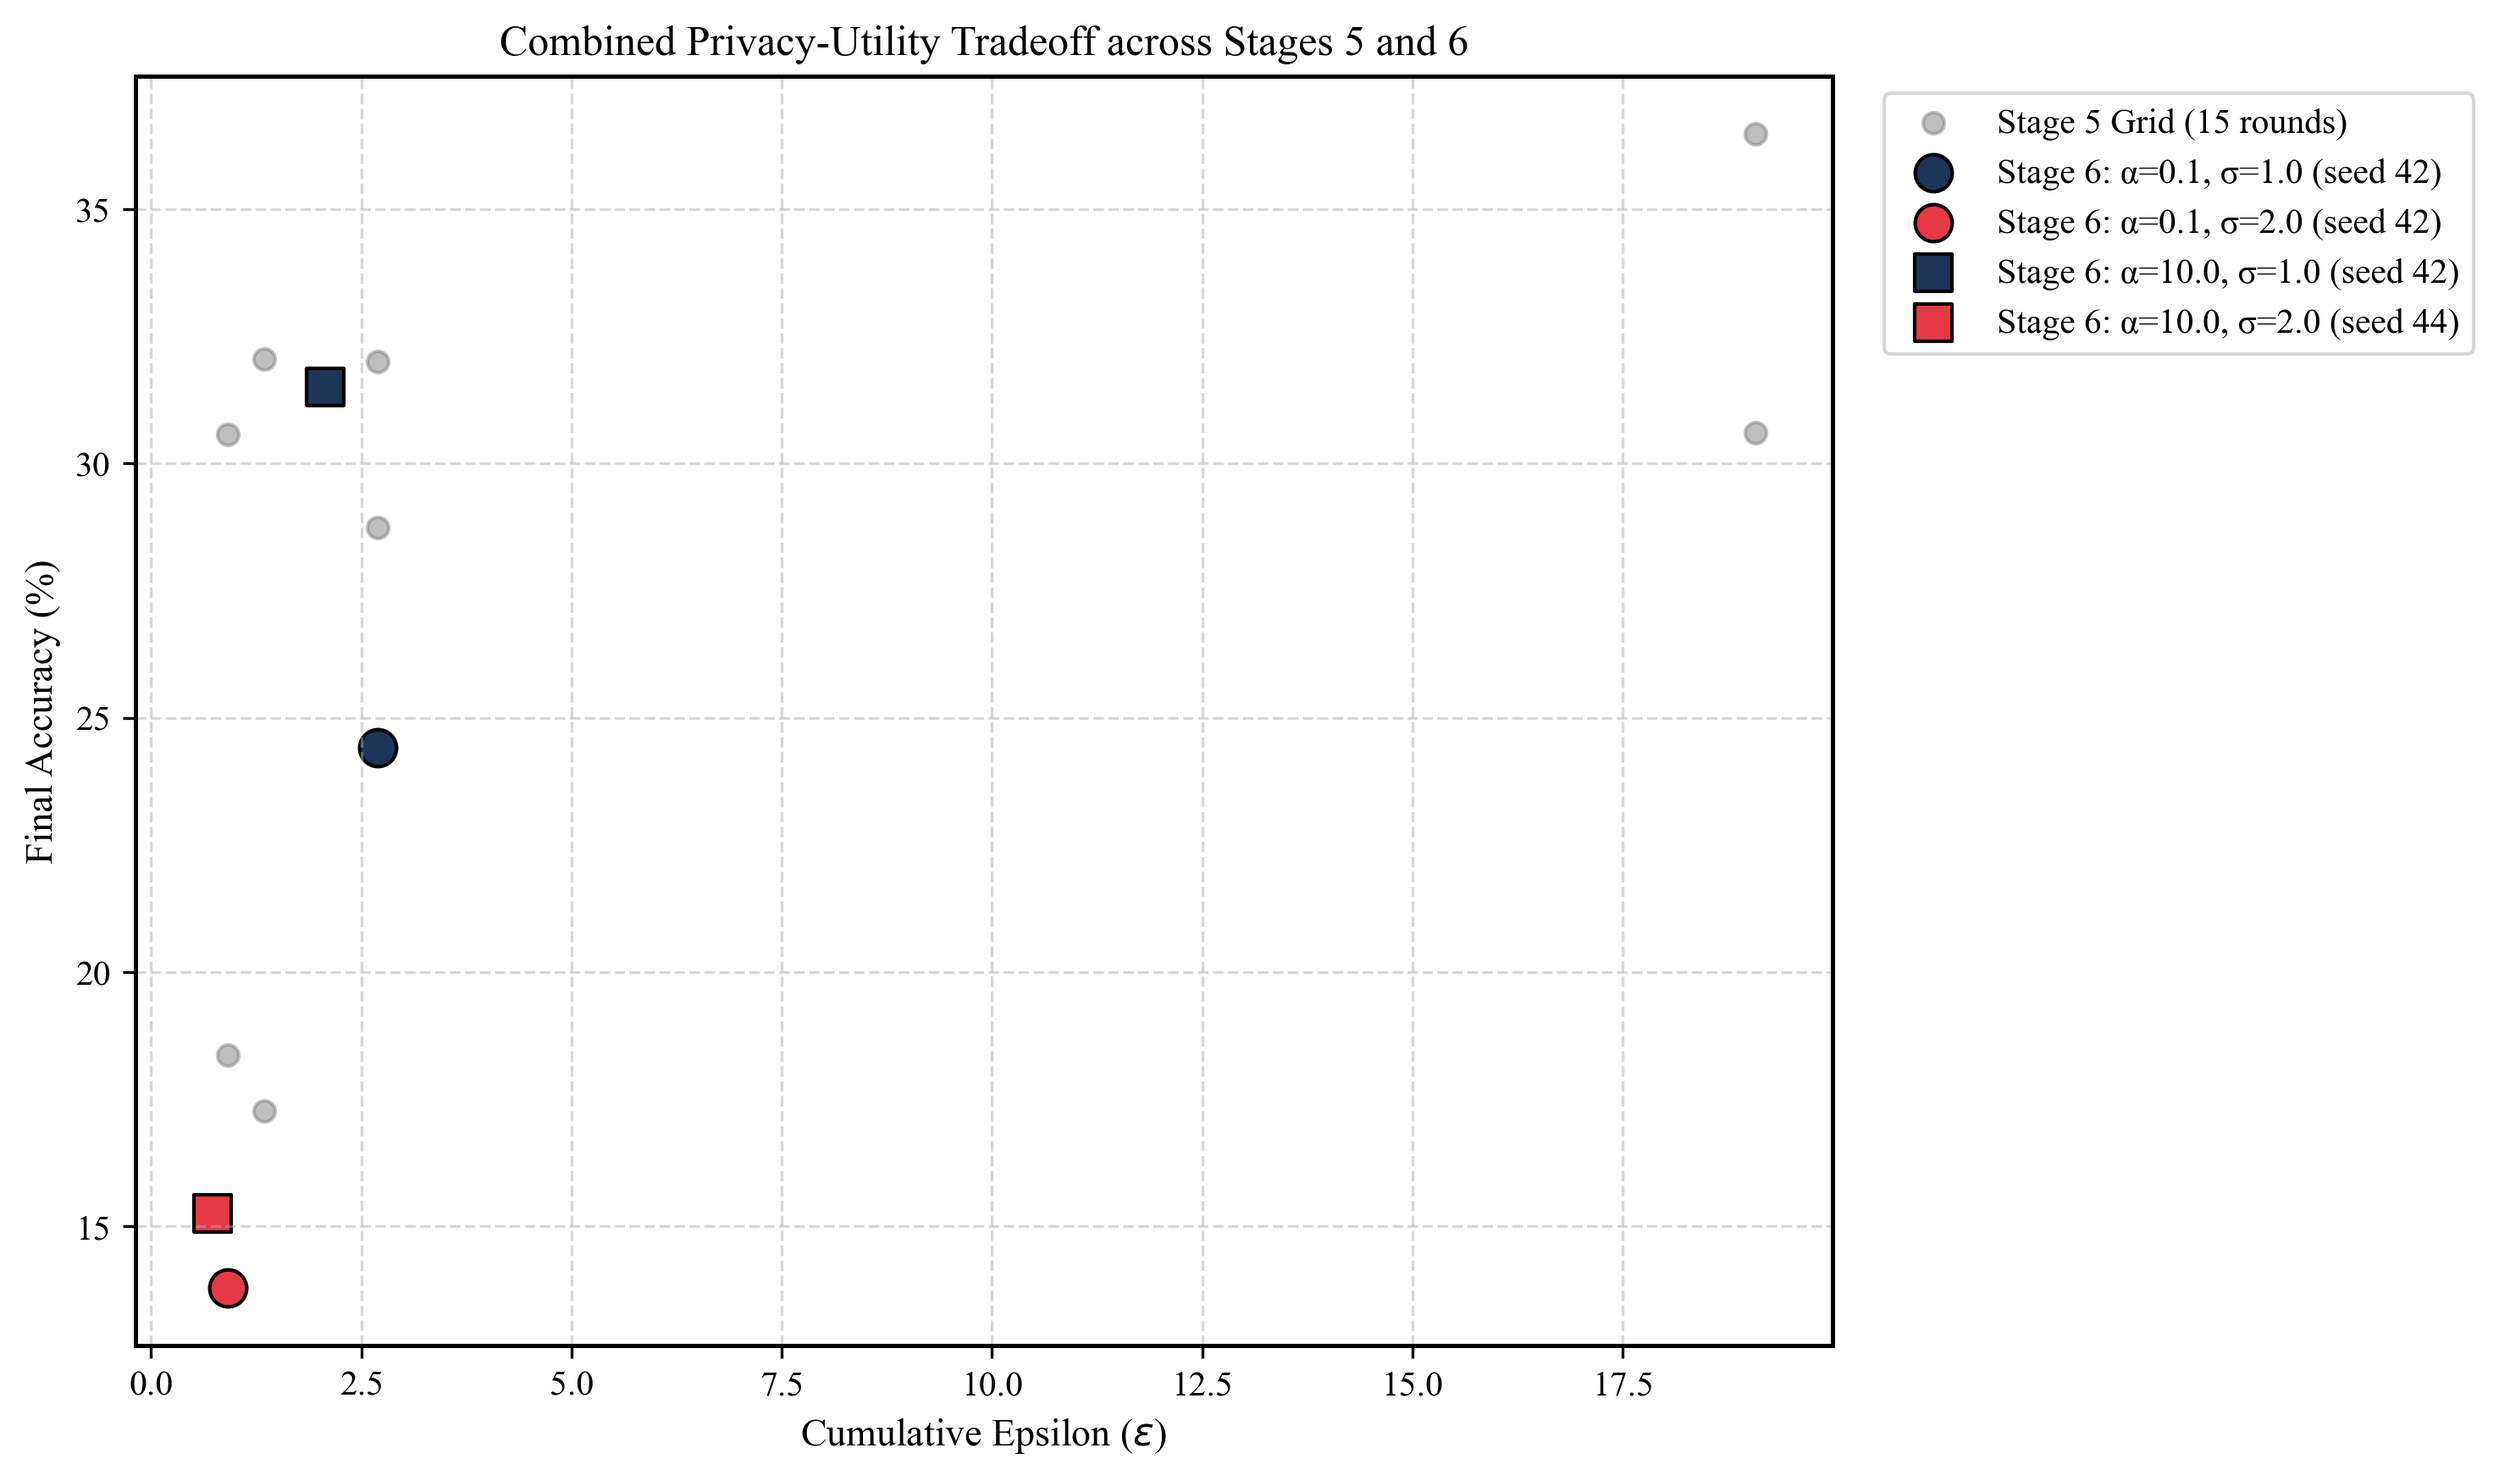
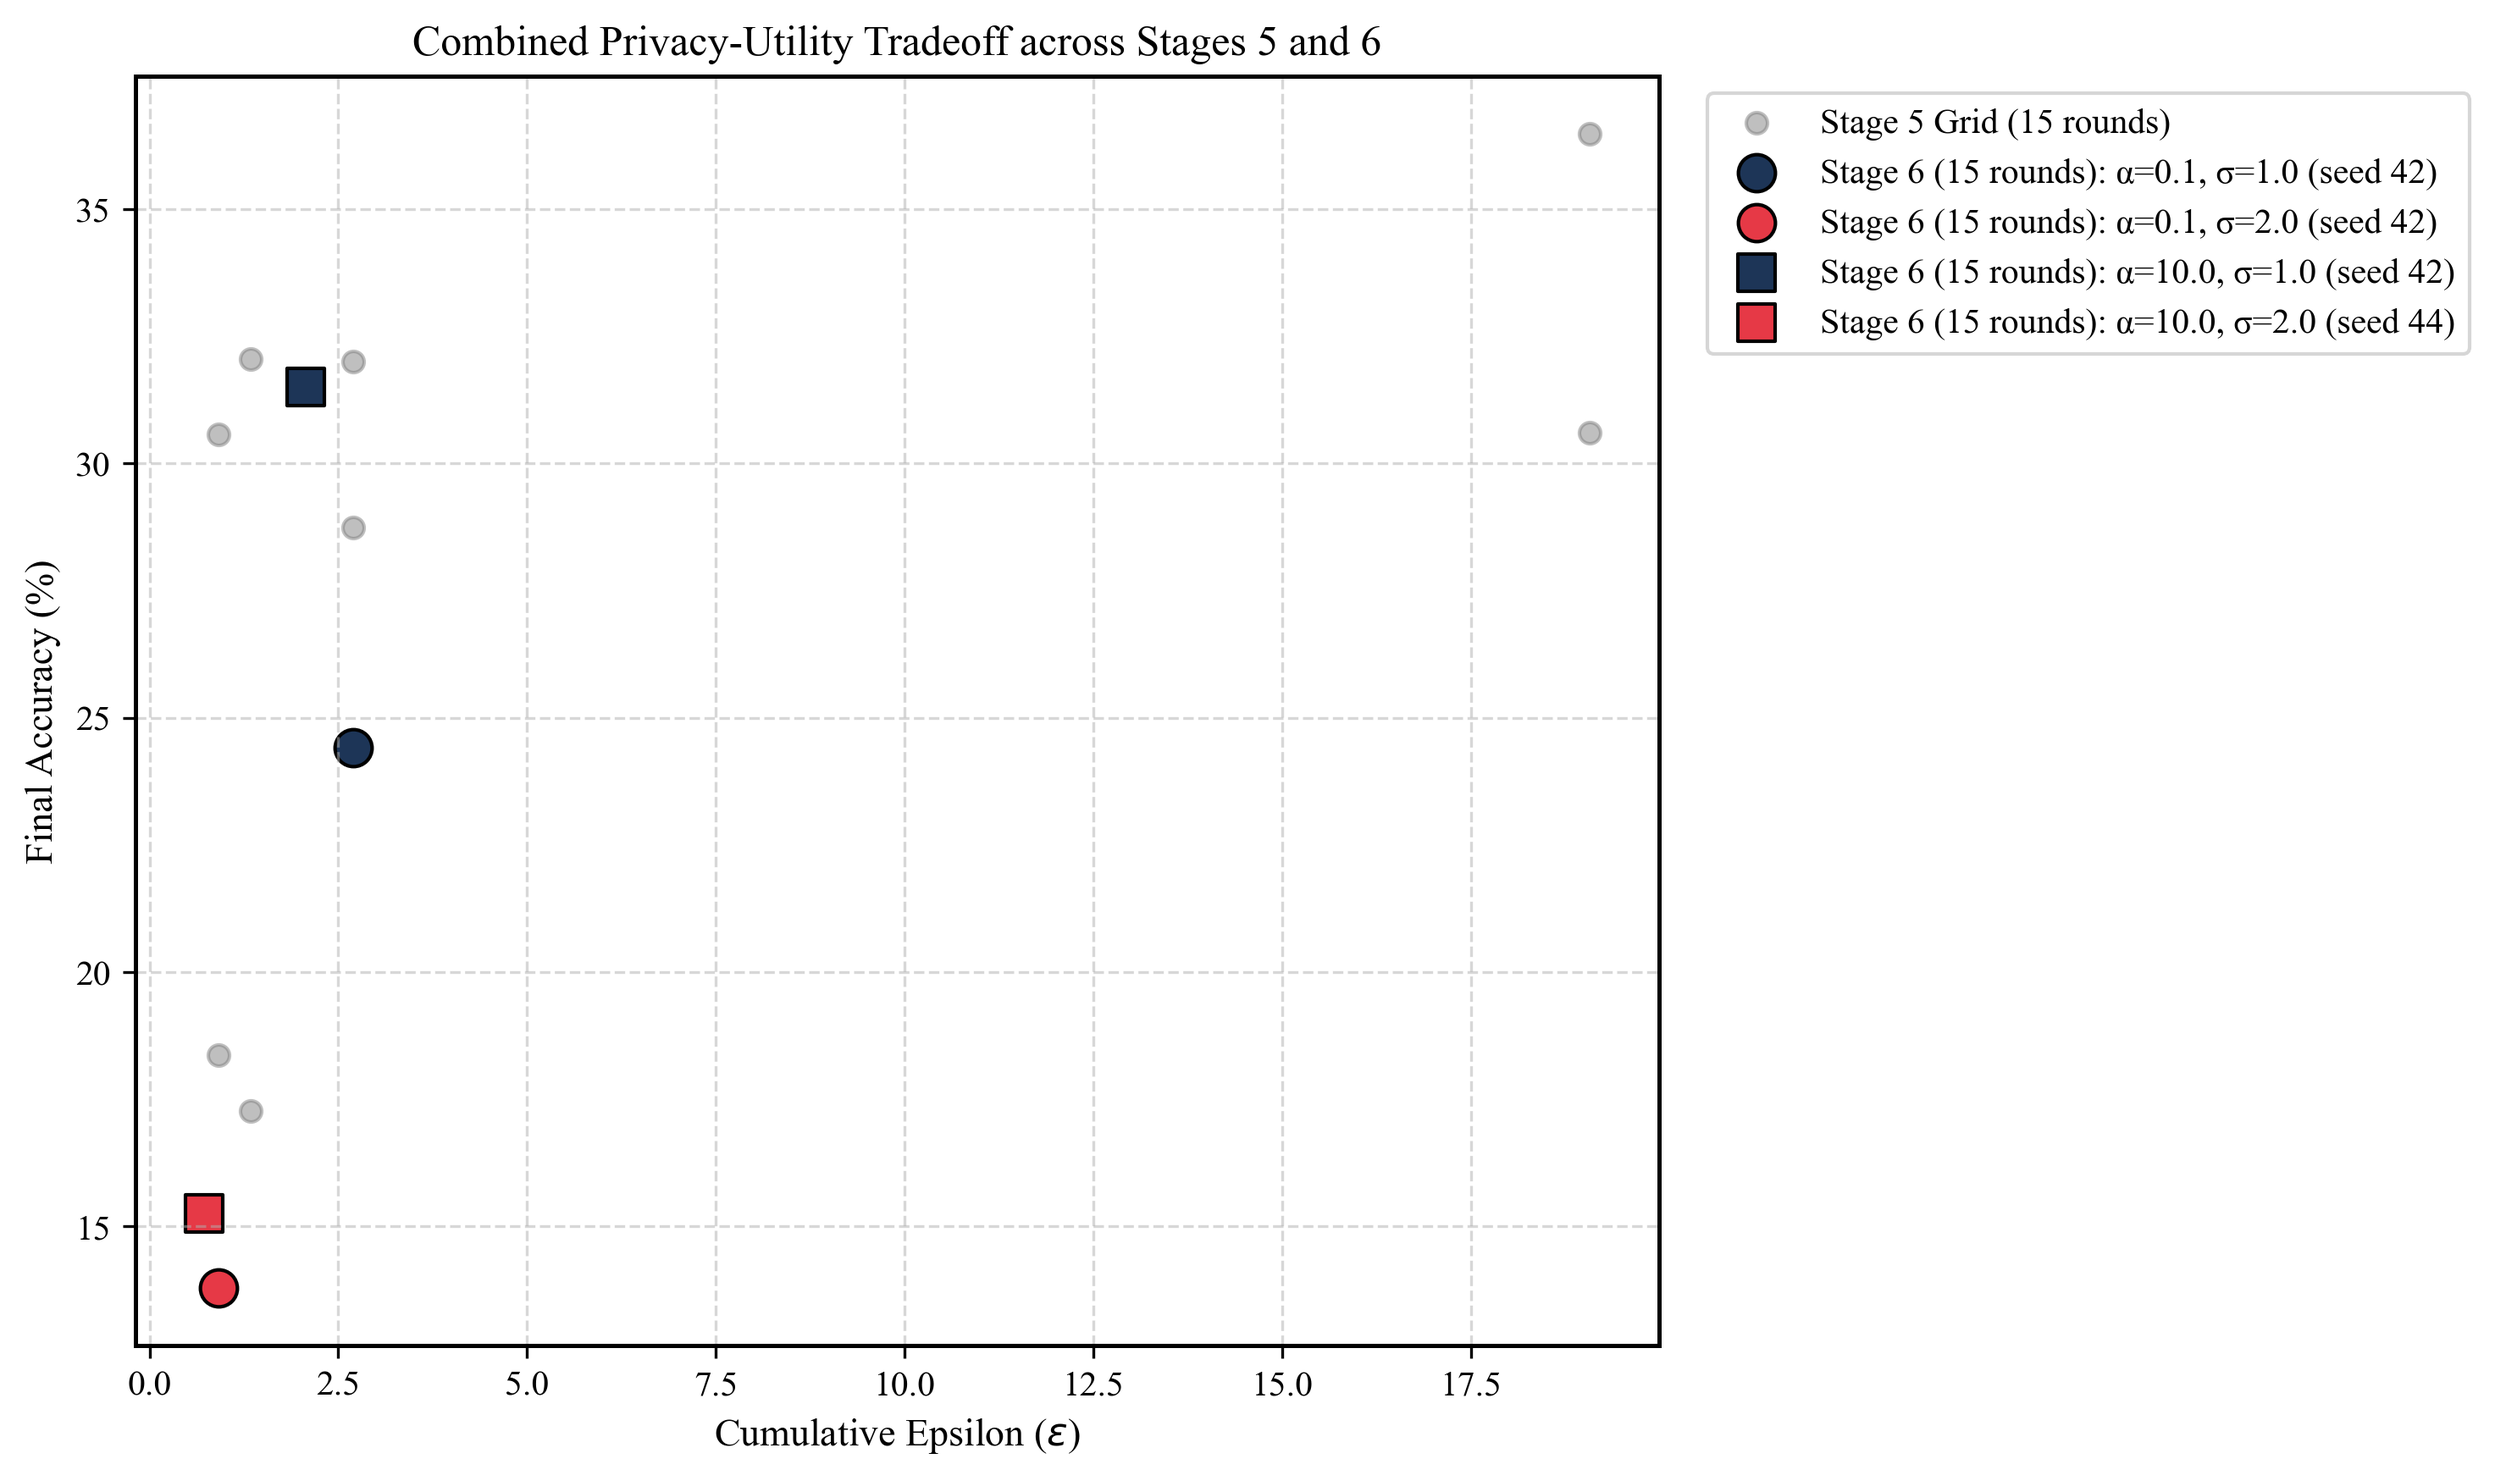
reconcile stage 6 aggregates and update report tables

diff --git a/technical_report.tex b/technical_report.tex
@@ -296,7 +296,7 @@ To assess statistical sensitivity to random seed initialization, we evaluate mul
         10.0 & 2.0 & 42, 43, 44 & 9.77 & $\pm 0.69$ & 0.3073 & $\pm 0.0133$ \\
         \hline
     \end{tabular}
-    \caption{Multi-seed empirical robustness summary ($N=3$ seeds, 3 communication rounds).}
+    \caption{Multi-seed empirical robustness summary ($N=3$ seeds, 3 communication rounds). Standard deviations denote sample standard deviations ($s$ with Bessel's correction, $\text{ddof}=1$); the underlying automated storage files (\texttt{aggregate.csv} and \texttt{aggregate.json}) record population standard deviations ($\text{ddof}=0$).}
     \label{tab:stage6_multiseed}
 \end{table}
 

diff --git a/scripts/generate_figures.py b/scripts/generate_figures.py
@@ -351,7 +351,7 @@ def main():
             color = '#1D3557' if d['sigma'] == 1.0 else '#E63946'
             seed_label = f" (seed {d['seed']})" if 'seed' in d else ""
             plt.scatter(d['epsilon'], d['final_test_accuracy'], 
-                        label=f"Stage 6: α={d['alpha']}, σ={d['sigma']}{seed_label}", 
+                        label=f"Stage 6 (15 rounds): α={d['alpha']}, σ={d['sigma']}{seed_label}", 
                         marker=marker, color=color, s=110, edgecolors='black', linewidth=1.0)
         plt.title(f"Combined Privacy-Utility Tradeoff across Stages 5 and 6{title_suffix}")
         plt.xlabel(r"Cumulative Epsilon ($\epsilon$)")

diff --git a/results/stage6/STAGE6_SUMMARY.md b/results/stage6/STAGE6_SUMMARY.md
@@ -42,14 +42,17 @@ These runs evaluate multi-seed stability across 3 random seeds ($N=3$) under ide
 
 ### 2.2 Three-Seed Statistical Aggregates ($N=3$)
 
-| $\alpha$ | $\sigma$ | $C$ | Seeds | Final Acc Mean (%) | Final Acc Sample Std | Best Acc Mean (%) | Best Acc Sample Std | Mean $\varepsilon$ | Sample Std $\varepsilon$ | Max Worst-Case $\varepsilon$ |
-|:---:|:---:|:---:|:---:|:---:|:---:|:---:|:---:|:---:|:---:|:---:|
-| 0.1 | 1.0 | 1.0 | 42, 43, 44 | 18.66 | $\pm 0.93$ | 18.66 | $\pm 0.93$ | 1.5171 | $\pm 0.0215$ | 1.5394 |
-| 0.1 | 2.0 | 1.0 | 42, 43, 44 | 10.96 | $\pm 1.07$ | 11.16 | $\pm 0.84$ | 0.3712 | $\pm 0.0301$ | 0.3918 |
-| 10.0 | 1.0 | 1.0 | 42, 43, 44 | 17.88 | $\pm 2.36$ | 18.14 | $\pm 2.73$ | 1.2354 | $\pm 0.0214$ | 1.2595 |
-| 10.0 | 2.0 | 1.0 | 42, 43, 44 | 9.77 | $\pm 0.69$ | 10.96 | $\pm 1.21$ | 0.3073 | $\pm 0.0133$ | 0.3216 |
+| $\alpha$ | $\sigma$ | $C$ | Seeds | Final Acc Mean (%) | Final Acc Sample Std ($s$, $\text{ddof}=1$) | Final Acc Pop Std ($\text{ddof}=0$) | Best Acc Mean (%) | Best Acc Sample Std ($s$, $\text{ddof}=1$) | Best Acc Pop Std ($\text{ddof}=0$) | Mean $\varepsilon$ | Sample Std $\varepsilon$ ($s$, $\text{ddof}=1$) | Pop Std $\varepsilon$ ($\text{ddof}=0$) | Max Worst-Case $\varepsilon$ |
+|:---:|:---:|:---:|:---:|:---:|:---:|:---:|:---:|:---:|:---:|:---:|:---:|:---:|:---:|
+| 0.1 | 1.0 | 1.0 | 42, 43, 44 | 18.66 | $\pm 0.93$ | $\pm 0.76$ | 18.66 | $\pm 0.93$ | $\pm 0.76$ | 1.5171 | $\pm 0.0215$ | $\pm 0.0176$ | 1.5394 |
+| 0.1 | 2.0 | 1.0 | 42, 43, 44 | 10.96 | $\pm 1.07$ | $\pm 0.87$ | 11.16 | $\pm 0.84$ | $\pm 0.69$ | 0.3712 | $\pm 0.0301$ | $\pm 0.0246$ | 0.3918 |
+| 10.0 | 1.0 | 1.0 | 42, 43, 44 | 17.88 | $\pm 2.36$ | $\pm 1.93$ | 18.14 | $\pm 2.73$ | $\pm 2.23$ | 1.2354 | $\pm 0.0214$ | $\pm 0.0175$ | 1.2595 |
+| 10.0 | 2.0 | 1.0 | 42, 43, 44 | 9.77 | $\pm 0.69$ | $\pm 0.56$ | 10.96 | $\pm 1.21$ | $\pm 0.98$ | 0.3073 | $\pm 0.0133$ | $\pm 0.0109$ | 0.3216 |
 
-*Statistical Note*: Per-run epsilons represent rigorous upper bounds on the individual sample differential privacy loss. The mean $\varepsilon$ is reported strictly as a descriptive summary of empirical accounting stability across partitions; it does **not** replace the worst-case bound $\max_s \varepsilon_s$, which serves as the formal privacy guarantee.
+*Statistical Note on Standard Deviation Reconciliation*:
+- **Documentation Reporting**: All main technical report tables and markdown summaries report **sample standard deviation** ($s$, computed with Bessel's correction $\text{ddof}=1$, dividing by $N-1=2$) to provide unbiased uncertainty estimates for small sample sizes ($N=3$).
+- **Automated Storage Files**: The automated pipeline outputs `results/stage6/multiseed/aggregate.csv` and `aggregate.json` record **population standard deviation** ($\text{ddof}=0$, dividing by $N=3$). Both representations are mathematically exact functions of the identical three seed measurements (42, 43, 44), related by the conversion factor $\sqrt{N/(N-1)} = \sqrt{3/2} \approx 1.2247$.
+- **Privacy Interpretation**: Per-run epsilons represent rigorous upper bounds on the individual sample differential privacy loss. The mean $\varepsilon$ is reported strictly as a descriptive summary of empirical accounting stability across partitions; it does **not** replace the worst-case bound $\max_s \varepsilon_s$, which serves as the formal privacy guarantee.
 
 ---
 

diff --git a/README.md b/README.md
@@ -23,9 +23,8 @@ How severely does the strict bound of Differential Privacy degrade the classific
 - **Clients**: 5 (3 for quick validation/subset runs)
 - **Communication rounds**:
   - Quick validation/subset runs: 2-3 rounds
-  - Historical experiments (Stage 6 legacy): 3 rounds
-  - Official full experiments (Stages 3, 4, 5): 15 rounds
-  - New replication experiments (Stage 6 multi-seed): 15 rounds
+  - Official full experiments (Stages 3, 4, 5, and Stage 6 reference runs): 15 rounds
+  - Multi-seed robustness grid (Stage 6, 12 runs across 3 seeds): 3 rounds
 - **Local epochs**: 1
 - **Batch size**: 64
 - **Federated Optimizer**: SGD, learning rate = 0.05
@@ -124,15 +123,15 @@ Privacy is accounted via **Rényi Differential Privacy (RDP)**:
 - **Stage 6 15-Round Reference Runs**:
   - $\alpha=10.0, \sigma=1.0$ (seed 42): 31.51%, $\varepsilon=2.0691$
   - $\alpha=0.1, \sigma=1.0$ (seed 42): 24.41%, $\varepsilon=2.6974$
-  - $\alpha=10.0, \sigma=2.0$ (seed 44*): 21.36%, $\varepsilon=0.8879$ (*seed 44 used due to Ray IPC worker crash on seed 42)
-  - $\alpha=0.1, \sigma=2.0$ (seed 42): 20.31%, $\varepsilon=1.0560$
-- **Stage 6 Multi-Seed Replication ($N=3$, seeds 42, 43, 44, 3 rounds)**:
-  - $\alpha=0.1, \sigma=1.0$: $19.26\% \pm 0.38\%$, $\varepsilon=0.8659$
-  - $\alpha=0.1, \sigma=2.0$: $16.94\% \pm 0.96\%$, $\varepsilon=0.4851$
-  - $\alpha=10.0, \sigma=1.0$: $22.69\% \pm 0.77\%$, $\varepsilon=0.7410$
-  - $\alpha=10.0, \sigma=2.0$: $19.53\% \pm 0.61\%$, $\varepsilon=0.4287$
+  - $\alpha=10.0, \sigma=2.0$ (seed 44*): 15.26%, $\varepsilon=0.7271$ (*seed 44 used due to Ray IPC worker crash on seed 42)
+  - $\alpha=0.1, \sigma=2.0$ (seed 42): 13.79% (best: 18.95%), $\varepsilon=0.9117$
+- **Stage 6 Multi-Seed Robustness Grid ($N=3$, seeds 42, 43, 44, 3 rounds)**:
+  - $\alpha=0.1, \sigma=1.0$: $18.66\% \pm 0.93\%$, $\varepsilon=1.5171$
+  - $\alpha=0.1, \sigma=2.0$: $10.96\% \pm 1.07\%$, $\varepsilon=0.3712$
+  - $\alpha=10.0, \sigma=1.0$: $17.88\% \pm 2.36\%$, $\varepsilon=1.2354$
+  - $\alpha=10.0, \sigma=2.0$: $9.77\% \pm 0.69\%$, $\varepsilon=0.3073$
 
-*Complete tabular details and per-run metrics are documented in [`results/stage6/STAGE6_SUMMARY.md`](results/stage6/STAGE6_SUMMARY.md).*
+*(All multi-seed uncertainty values reported in documentation denote sample standard deviation with Bessel's correction, $s$ with $\text{ddof}=1$; the automated storage files `aggregate.csv` and `aggregate.json` record population standard deviation with $\text{ddof}=0$; complete tabular details and side-by-side reconciliation are documented in [`results/stage6/STAGE6_SUMMARY.md`](results/stage6/STAGE6_SUMMARY.md)).*
 
 ## Reproducibility
 The official experiments leverage deterministic seeds (seed=42 for baseline/Stage 4/5; seeds 42, 43, 44 for multi-seed replication). However, Ray-based multi-client simulation can introduce execution-level non-determinism. Opacus Secure RNG was disabled for execution speed, therefore the implementation is intended for experimental/research use rather than production privacy deployment.
